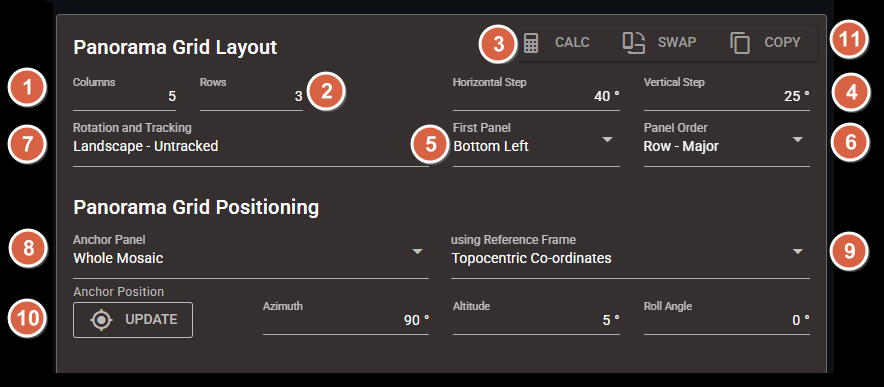
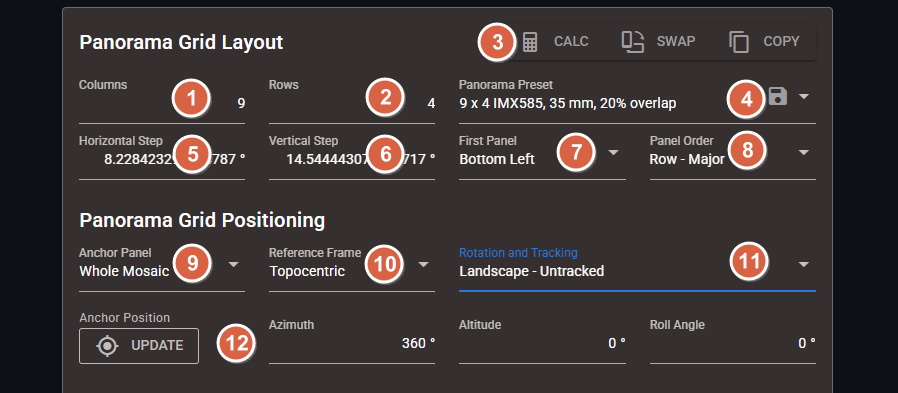
fix(docs): update the pilot.md documentation for the Pano Presets

Changed region(s): [[0.0, 0.0, 1.0, 1.0], [0.5192, 0.7752, 0.7941, 0.9302]]

diff --git a/docs/pilot.md b/docs/pilot.md
@@ -1021,15 +1021,17 @@ Changes made in Alpaca Pilot immediately update the active panorama grid in the 
 
 - **③ Swap:** Changes the spacing between panels for either a Landscape or Portrait orientation, by  swaping the `"hstep"` and `"vstep"` values. Landscape orientation will have a larger `"hstep"`, while Portrait orientation will have a larger `"vstep"`. This button only changes the spacing of the panels, you will need to use a lens collar to rotate your camera's sensor to match the orientation. 
 
-- **&#9322; Copy:** Copies the current Panorama Grid settings to the clipboard in JSON format. After defining the Panorama Grid Layout, use this button to paste the settings directly into the `Polaris:PanoGrid` **Device Action Parameters** field within the NINA Advanced Sequencer. See below for an example.
+- **③ Copy:** Copies the current Panorama Grid settings to the clipboard in JSON format. After defining the Panorama Grid Layout, use this button to paste the settings directly into the `Polaris:PanoGrid` **Device Action Parameters** field within the NINA Advanced Sequencer. See below for an example.
 
 > Note: Clipboard access is restricted in browsers and the Copy function will only work over HTTPS. Refer to the instructions below to [enable HTTPS in Alpaca Pilot](#enable-https-in-alpaca-pilot). 
 
-- **③ Horizontal Step `"hstep":`**  Angular distance, in **decimal degrees**, between the centres of adjacent horizontal panels. Factor in FOV overlap. Horizontal means different things for diferent reference frames. For Topocentric it alters the Azimuth, for Equatorial it alters the Right Ascension and for Galactic it alters the Galactic Longitude.
+- **④ Panorama Preset `"pano_name":`**  The name used to save and load Panorama Presets. This field is automatically filled when applying Pano Calculator Setting and can be overriden with a custom name. Clicking the Save button will add the preset to the drop down list for later recall. 
 
-- **④ Vertical Step `"vstep":`**  Angular distance, in **decimal degrees**, between the centres of adjacent vertical panels. Factor in FOV overlap. Vertical means different things for diferent reference frames. For Topocentric it alters the Altitude, for Equatorial it alters the Declination and for Galactic it alters the Galactic Latitude.
+- **⑤ Horizontal Step `"hstep":`**  Angular distance, in **decimal degrees**, between the centres of adjacent horizontal panels. Factor in FOV overlap. Horizontal means different things for diferent reference frames. For Topocentric it alters the Azimuth, for Equatorial it alters the Right Ascension and for Galactic it alters the Galactic Longitude.
 
-- **⑤ First Panel `"first":`** Defines which corner of the panorama grid is assigned panel number 1. This determines where the capture sequence begins and, together with the **Panel Order ("order")** setting, controls the rotational step direction in which the panorama progresses. 
+- **⑥ Vertical Step `"vstep":`**  Angular distance, in **decimal degrees**, between the centres of adjacent vertical panels. Factor in FOV overlap. Vertical means different things for diferent reference frames. For Topocentric it alters the Altitude, for Equatorial it alters the Declination and for Galactic it alters the Galactic Latitude.
+
+- **⑦ First Panel `"first":`** Defines which corner of the panorama grid is assigned panel number 1. This determines where the capture sequence begins and, together with the **Panel Order ("order")** setting, controls the rotational step direction in which the panorama progresses. 
 
    * **0 – Top Left**: Panel 1 is located in the top row and leftmost column.
    * **1 – Top Right**: Panel 1 is located in the top row and rightmost column.
@@ -1043,12 +1045,22 @@ Changes made in Alpaca Pilot immediately update the active panorama grid in the 
 
 
 
-- **⑥ Panel Order `"order":`** Defines the sequence in which panels are captured:
+- **⑧ Panel Order `"order":`** Defines the sequence in which panels are captured:
    * **0 – Row‑Major**: Complete each row before moving to the next row.
    * **1 – Column‑Major**:  Complete each column before moving to the next column.
    * **2 – Serpentine**:  Alternate direction on each row or column to minimise repositioning time.
 
-- **⑦ Rotation and Tracking `"track":`** Defines how the mount tracks and how camera roll is handled **after moving to each panel**:
+- **⑨ Anchor Panel `"anchor":`** Specifies which part of the panorama is placed at the anchor position. The **Anchor Panel** and **Reference Position** work together to shift the entire panorama grid to your desired orientation:
+   * **0 – Whole Mosaic**:  The entire panorama is centred on the anchor position.
+   * **n – Panel n**:   This panel is placed at the anchor position and all other panels are offset accordingly.
+
+
+- **&#9321; Reference Frame `"ref":`** Defines the coordinate system used to calculate the position of each panel. The panels position is defined by the Anchor Position plus a certain multiple of hstep and vstep, in the Reference Frames co-ordinates. 
+   * **0 – Az / Alt / Roll** Topocentric coordinates.
+   * **1 – RA / Dec / PA** Equatorial coordinates.
+   * **2 – Glon / Glat / GPA**  Galactic coordinates.
+
+- **&#9322; Rotation and Tracking `"track":`** Defines how the mount tracks and how camera roll is handled **after moving to each panel**:
    * **0 – Landscape · Untracked**: Tracking is disabled. The camera frame remains fixed relative to the horizon. Typically used in the Topocenteric Reference Frame.
    *Use for foreground or landscape panels where star motion is acceptable.*
    * **1 – Sky · Horizon‑Locked**: Sidereal tracking is enabled. The camera roll is reset to **0°** at each panel.
@@ -1061,17 +1073,8 @@ Changes made in Alpaca Pilot immediately update the active panorama grid in the 
       * **Galactic Position Angle (-180° to +180°)** defines the camera's rotation about its viewing axis. At 0°, the top of the frame points toward the North Galactic Pole. At ±90°, the top of the frame is aligned with the Milky Way plane. Beware of Benro Polaris roll angle
 
 
-- **⑧ Anchor Panel `"anchor":`** Specifies which part of the panorama is placed at the anchor position. The **Anchor Panel** and **Reference Position** work together to shift the entire panorama grid to your desired orientation:
-   * **0 – Whole Mosaic**:  The entire panorama is centred on the anchor position.
-   * **n – Panel n**:   This panel is placed at the anchor position and all other panels are offset accordingly.
 
-
-- **⑨ Reference Frame `"ref":`** Defines the coordinate system used to calculate the position of each panel. The panels position is defined by the Anchor Position plus a certain multiple of hstep and vstep, in the Reference Frames co-ordinates. 
-   * **0 – Az / Alt / Roll** Topocentric coordinates.
-   * **1 – RA / Dec / PA** Equatorial coordinates.
-   * **2 – Glon / Glat / GPA**  Galactic coordinates.
-
-- **&#9321; Anchor Position:** Defines the sky position for the anchor:
+- ** &#9323;Anchor Position:** Defines the sky position for the anchor:
 
    * **Update Button**: Updates the anchor position with the mounts current orientation
    * **Reference Axis 1 `"r1":`**: Azimuth, Right Ascension, or Galactic Lon
